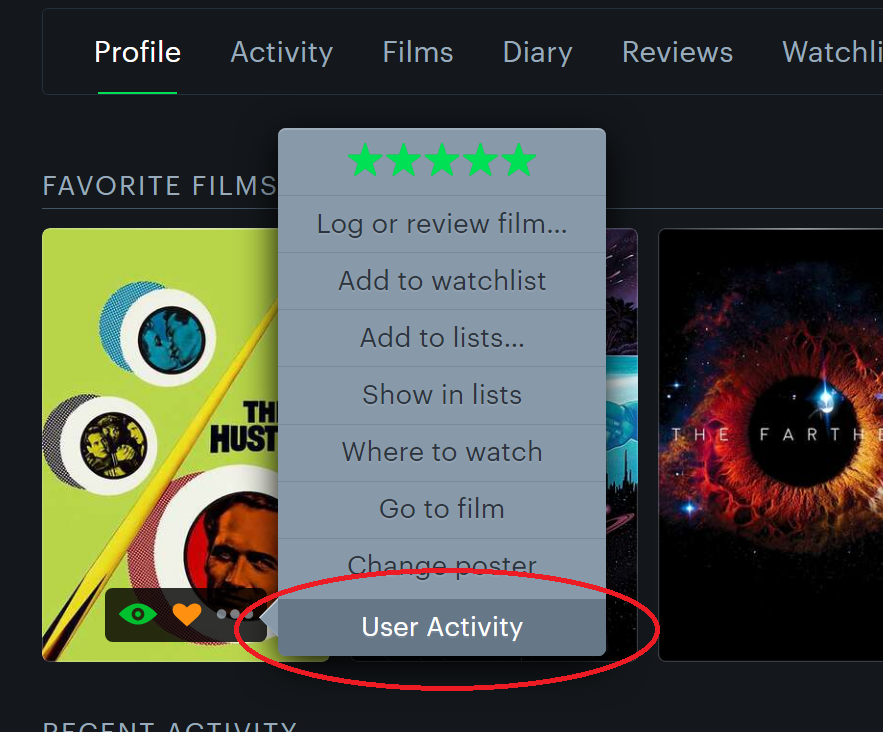
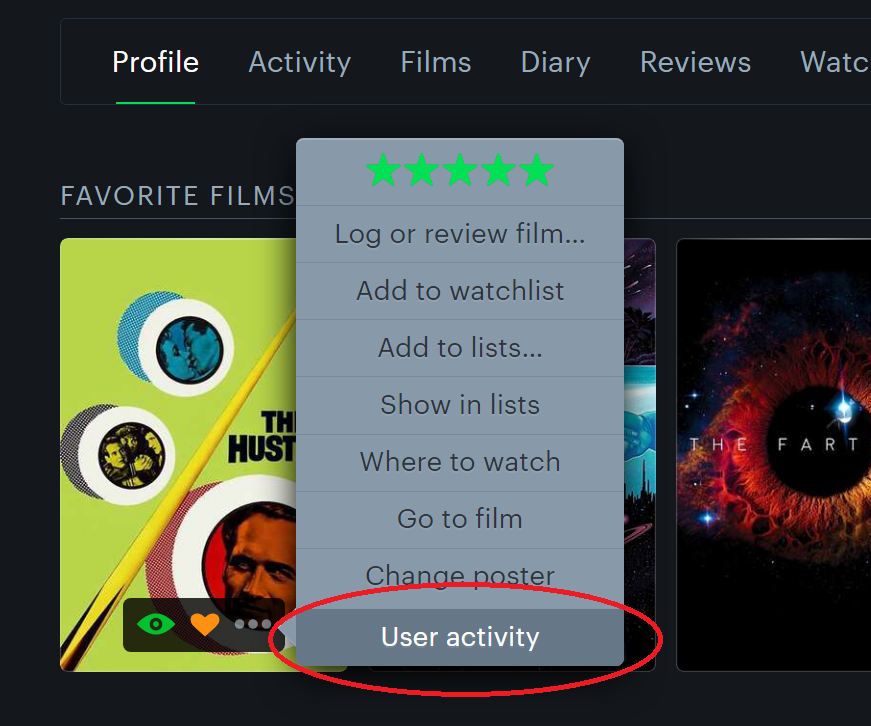
version 1.0 - capitalization and spelling fix

diff --git a/scripts/core.js b/scripts/core.js
@@ -43,7 +43,7 @@ const addCurrentUserActivityToList = (member, filmLink, filmMenu) => {
         filmMenu.parentElement.style.display = 'none';
         window.location.href = url;
     };
-    a.appendChild(document.createTextNode('User Activity'));
+    a.appendChild(document.createTextNode('User activity'));
     var li = document.createElement('li');
     li.classList.add('popup-menu-text')
     li.style.cursor = 'pointer';

diff --git a/README.md b/README.md
@@ -11,11 +11,11 @@ Version 1.0
 
 1) User activity menu link on the film posters '...' menu.
 
-<img src="images/feature_1_0_1.png" alt="Version 1.0 - Feature 1" width="300" height="248">
+<img src="images/feature_1_0_1.png" alt="Version 1.0 - Feature 1" width="300" height="250">
 
 When you are within a user's profile, the film posters '...' menu will have a new option inserted at the bottom of the list. It is called 'User activity' and will forward you to that user's activity feed for that specific film.
 
-Recently LB updated the site and occassionally does send you to the same location when clicking on a film poster, but it is inconsistent. It appears to prioritize sending you to the most recent review of the film for the user. If the user has no reviews, it sometimes directs you to the acticity for the film and other times to an empty activity entry. So feels like this extension feature will still be useful, as the menu item guarantees you'll land on the user's activity feed for that film.
+Recently LB updated the site and occassionally does send you to the same location when clicking on a film poster, but it is inconsistent. It appears to prioritize sending you to the most recent review of the film for the user. If the user has no reviews, it sometimes directs you to the activity for the film and other times to an empty activity entry. So feels like this extension feature will still be useful, as the menu item guarantees you'll land on the user's activity feed for that film.
 
 
 List of future potential features:
